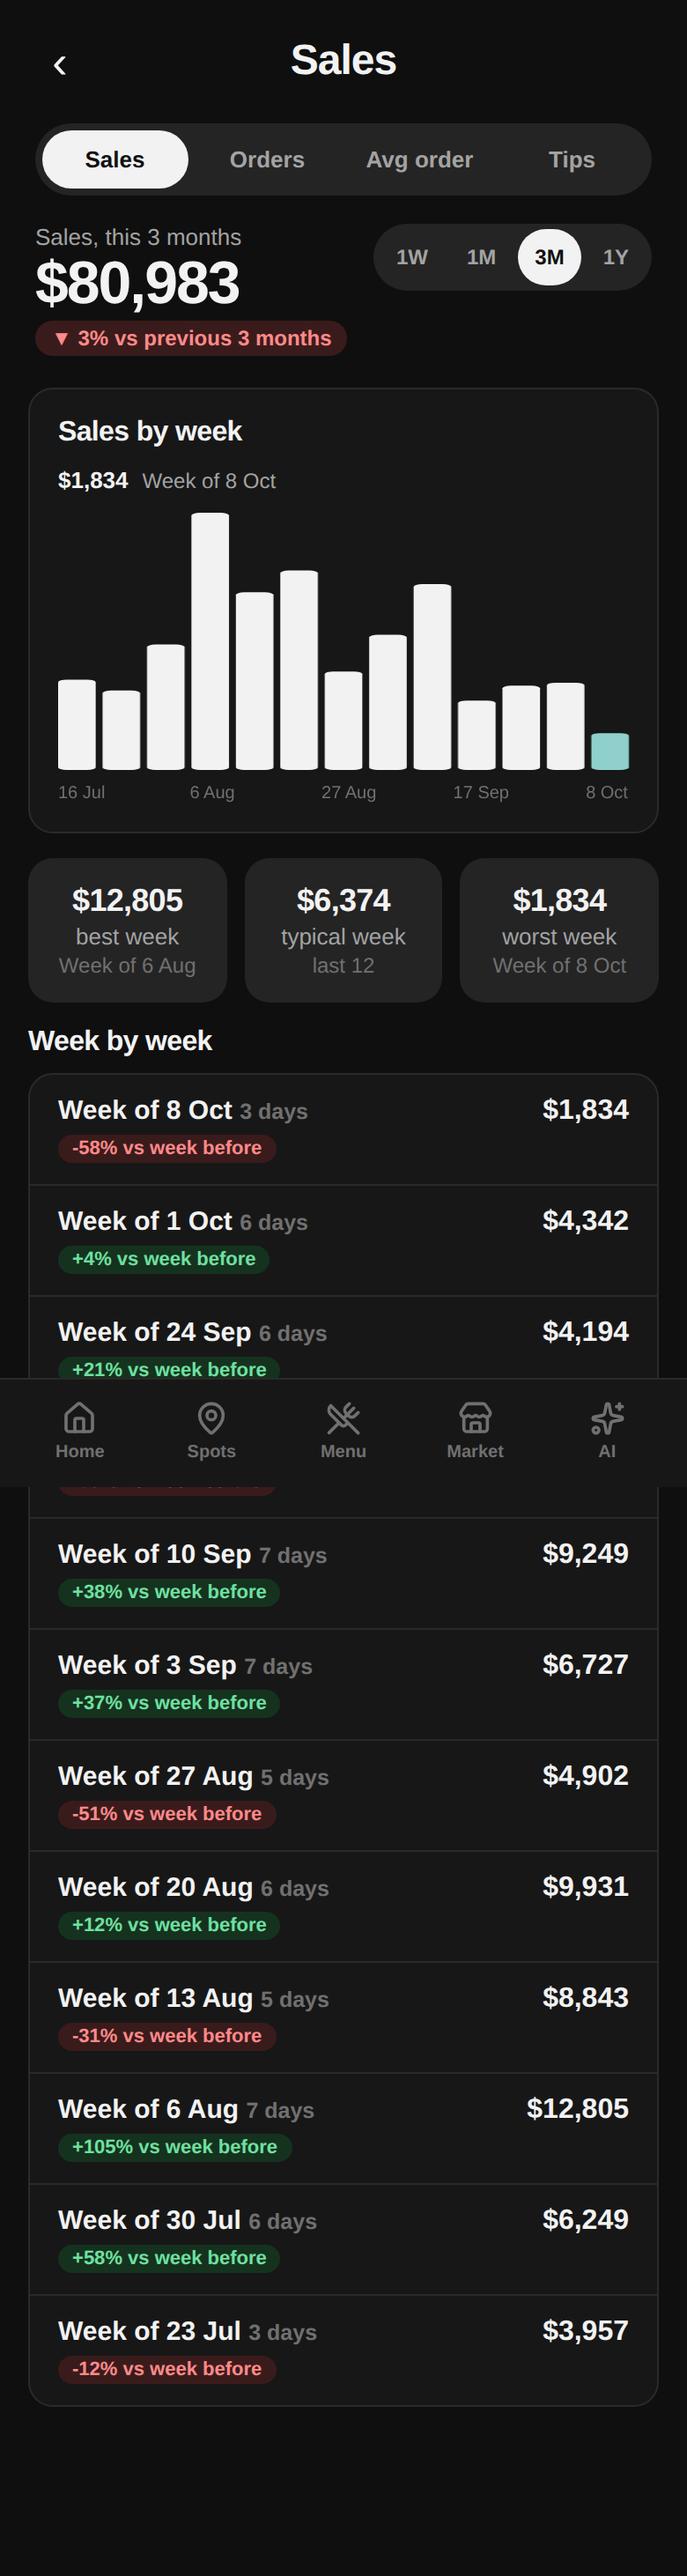
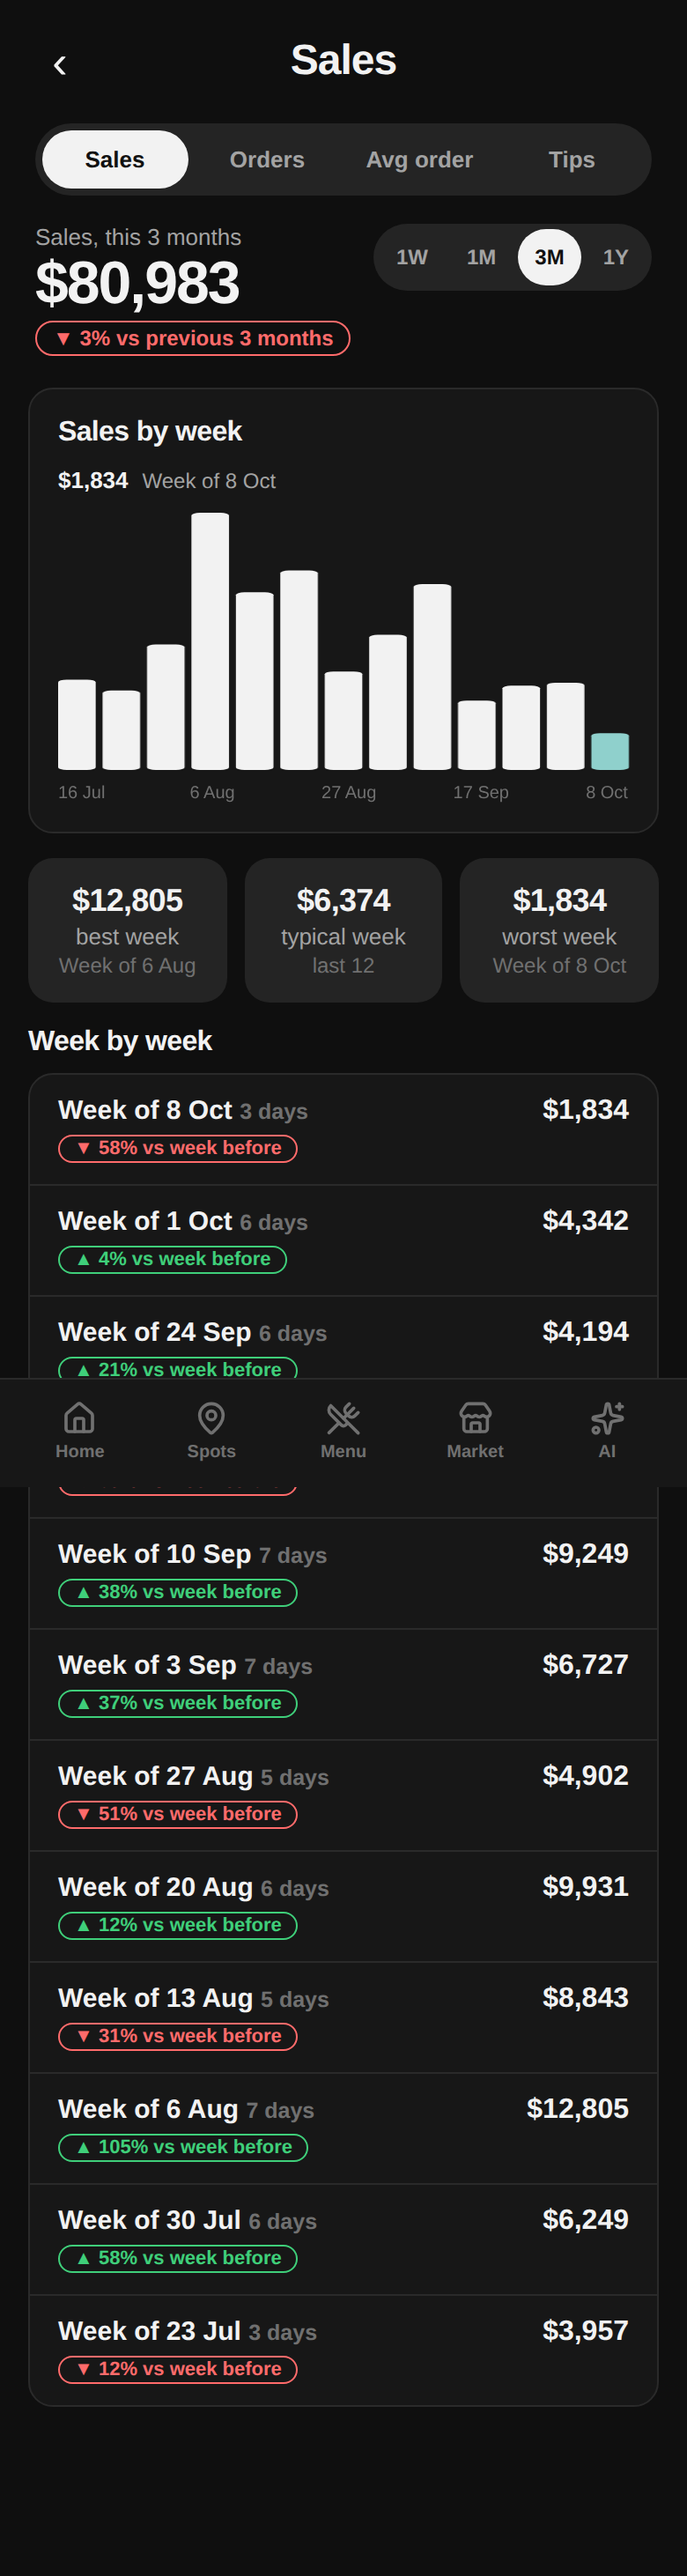
Change pills: outlined red or green with arrow, no fill
Claude-Session: https://claude.ai/code/session_011kULvXi1EhLGoQfkcWDNEp

diff --git a/food-truck-app/src/app.css b/food-truck-app/src/app.css
@@ -71,9 +71,9 @@ h2 { font-size: 16px; font-weight: 700; }
 .card-num { font-size: 22px; font-weight: 800; letter-spacing: -0.03em; line-height: 1.05; margin-top: 2px; }
 .card-sub { font-size: 12px; color: var(--ink-2); line-height: 1.35; }
 .chg-vs { font-size: 11px; color: var(--ink-3); }
-.chg { font-size: 12px; font-weight: 700; padding: 3px 8px; border-radius: 999px; margin-top: 4px; white-space: nowrap; }
-.chg.up { background: var(--good-soft); color: var(--good-ink); }
-.chg.down { background: var(--bad-soft); color: var(--bad-ink); }
+.chg { font-size: 12px; font-weight: 700; padding: 2px 8px; border-radius: 999px; margin-top: 4px; white-space: nowrap; border: 1px solid transparent; }
+.chg.up { color: var(--good); border-color: var(--good); }
+.chg.down { color: var(--bad); border-color: var(--bad); }
 .chg.flat { color: var(--ink-3); font-weight: 500; padding-left: 0; }
 
 /* ===== Feed (one list style everywhere) ===== */
@@ -151,9 +151,9 @@ h2 { font-size: 16px; font-weight: 700; }
 .tile { background: var(--panel); border-radius: var(--radius); padding: 14px 10px; text-align: center; display: flex; flex-direction: column; gap: 2px; align-items: center; border: 0; font: inherit; color: var(--ink); }
 .tile .num { font-size: 18px; font-weight: 800; letter-spacing: -0.02em; }
 .tile .delta.small { font-size: 12px; }
-.delta { font-size: 13px; font-weight: 700; display: inline-block; padding: 3px 9px; border-radius: 999px; }
-.delta.up { background: var(--good-soft); color: var(--good-ink); }
-.delta.down { background: var(--bad-soft); color: var(--bad-ink); }
+.delta { font-size: 13px; font-weight: 700; display: inline-block; padding: 2px 9px; border-radius: 999px; border: 1px solid transparent; }
+.delta.up { color: var(--good); border-color: var(--good); }
+.delta.down { color: var(--bad); border-color: var(--bad); }
 .delta.muted { color: var(--ink-3); font-weight: 500; padding: 0; }
 .tile .delta { padding: 2px 7px; }
 .hero .delta { font-size: 12px; }
@@ -163,11 +163,11 @@ h2 { font-size: 16px; font-weight: 700; }
 .log .name { grid-area: name; font-weight: 600; font-size: 15px; }
 .log .val { grid-area: val; font-weight: 800; font-variant-numeric: tabular-nums; }
 .pills-sm { grid-area: pills; display: flex; gap: 6px; }
-.pill { font-size: 11px; font-weight: 700; padding: 2px 8px; border-radius: 999px; }
+.pill { font-size: 11px; font-weight: 700; padding: 1px 8px; border-radius: 999px; border: 1px solid transparent; }
 .pill.grey { background: var(--panel); color: var(--ink-2); }
-.pill.green { background: var(--good-soft); color: var(--good-ink); }
-.pill.amber { background: var(--warn-soft); color: var(--warn-ink); }
-.pill.red { background: var(--bad-soft); color: var(--bad-ink); }
+.pill.green { color: var(--good); border-color: var(--good); }
+.pill.amber { color: var(--warn-ink); border-color: var(--warn); }
+.pill.red { color: var(--bad); border-color: var(--bad); }
 
 /* ===== Spots map and detail ===== */
 .mapcard { padding: 0; overflow: hidden; }

diff --git a/food-truck-app/src/screens/History.tsx b/food-truck-app/src/screens/History.tsx
@@ -77,7 +77,7 @@ export default function History() {
                 <span className="name">Week of {shortDate(x.from)} <small className="muted">{x.days} days</small></span>
                 <span className="val">{formatMetric(x.value, metric)}</span>
                 <span className="pills-sm">
-                  {ch !== null && <span className={`pill ${ch >= 0 ? 'green' : 'red'}`}>{ch >= 0 ? '+' : ''}{Math.round(ch * 100)}% vs week before</span>}
+                  {ch !== null && <span className={`pill ${ch >= 0 ? 'green' : 'red'}`}>{ch >= 0 ? '▲' : '▼'} {Math.abs(Math.round(ch * 100))}% vs week before</span>}
                 </span>
               </li>
             )
